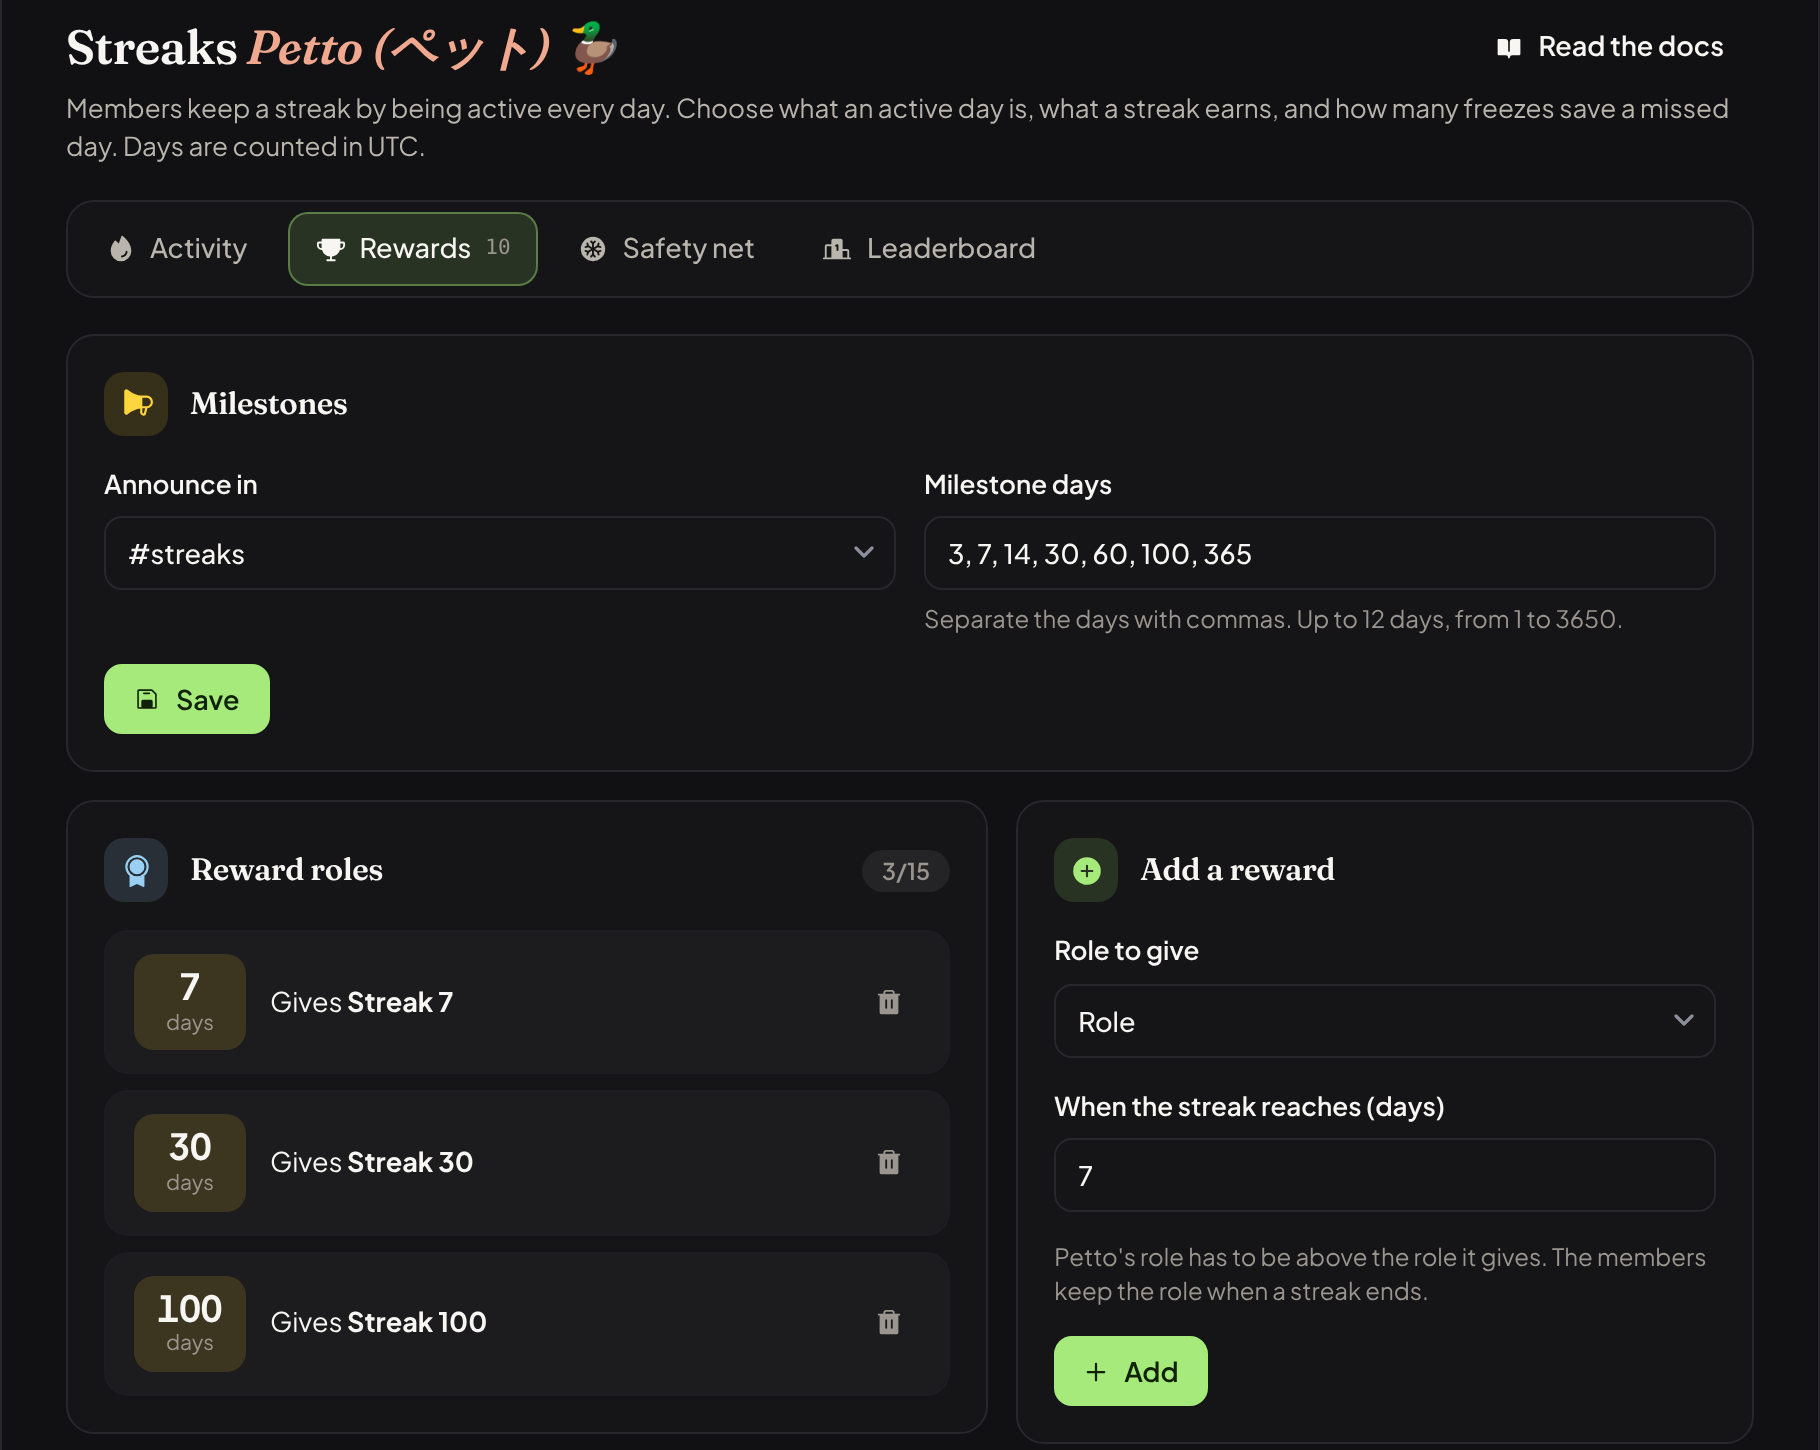
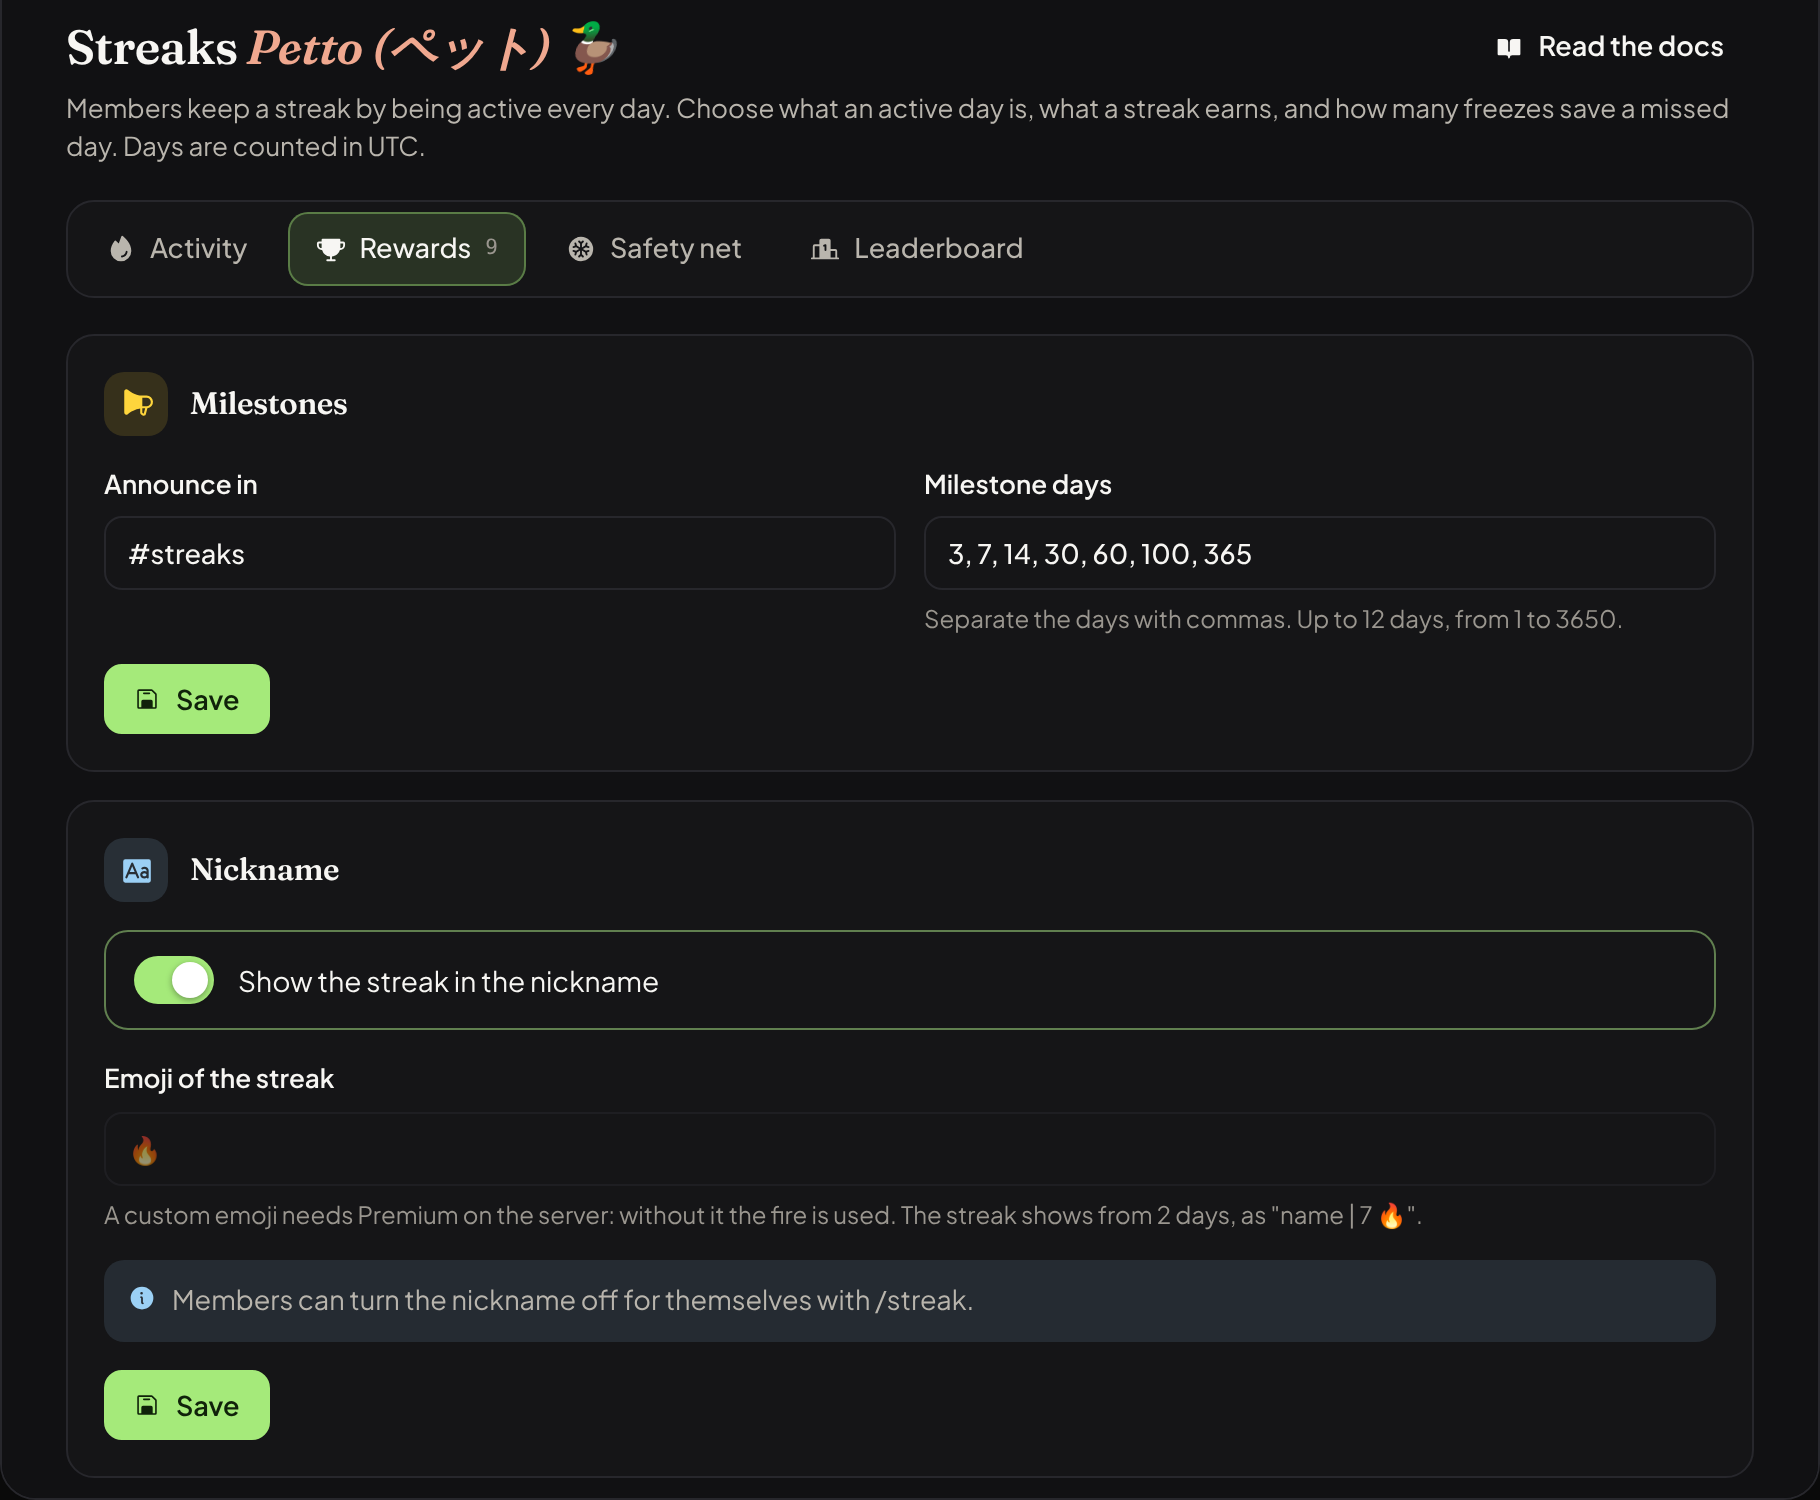
Streaks page: grace period, DM reminders, nickname; Currently log pictures

diff --git a/src/i18n/dash-es.ts b/src/i18n/dash-es.ts
@@ -7401,4 +7401,18 @@ export const dashEs: Record<string, string> = {
   "Terms:": "Términos:",
   "Purchases and refunds": "Compras y reembolsos",
   "Get Premium": "Obtener Premium",
+  "{n} minutes": "{n} minutos",
+  "2 hours": "2 horas",
+  "3 hours": "3 horas",
+  "Show the streak in the nickname": "Mostrar la racha en el apodo",
+  "Emoji of the streak": "Emoji de la racha",
+  "Shown after the days: \"name | 7 {emoji}\". The streak shows from 2 days. Petto cannot change the nickname of the owner or of someone above its role.": "Se muestra después de los días: \"nombre | 7 {emoji}\". La racha se muestra desde los 2 días. Petto no puede cambiar el apodo del dueño ni de quien esté por encima de su rol.",
+  "A custom emoji needs Premium on the server: without it the fire is used. The streak shows from 2 days, as \"name | 7 🔥\".": "Un emoji propio necesita Premium en el servidor: sin él se usa el fuego. La racha se muestra desde los 2 días, como \"nombre | 7 🔥\".",
+  "Members can turn the nickname off for themselves with /streak.": "Los miembros pueden apagar el apodo para sí mismos con /streak.",
+  "Grace period": "Periodo de gracia",
+  "For this long after midnight (UTC) the day that just ended still counts, so a streak is not lost the moment the day changes.": "Durante este tiempo después de medianoche (UTC) el día que acaba de terminar todavía cuenta, así una racha no se pierde en el momento en que cambia el día.",
+  "Reminder by DM": "Recordatorio por MD",
+  "A few hours before the day ends, Petto reminds by DM the members who would lose a streak of 3 days or more.": "Unas horas antes de que termine el día, Petto recuerda por MD a los miembros que perderían una racha de 3 días o más.",
+  "Message when a streak is lost": "Mensaje cuando se pierde una racha",
+  "Petto tells by DM a member who lost a streak of 3 days or more. A member can turn these messages off with /streak.": "Petto avisa por MD a un miembro que perdió una racha de 3 días o más. Un miembro puede apagar estos mensajes con /streak.",
 };

diff --git a/src/i18n/dash-pt.ts b/src/i18n/dash-pt.ts
@@ -7401,4 +7401,18 @@ export const dashPt: Record<string, string> = {
   "Terms:": "Termos:",
   "Purchases and refunds": "Compras e reembolsos",
   "Get Premium": "Obter Premium",
+  "{n} minutes": "{n} minutos",
+  "2 hours": "2 horas",
+  "3 hours": "3 horas",
+  "Show the streak in the nickname": "Mostrar a sequência no apelido",
+  "Emoji of the streak": "Emoji da sequência",
+  "Shown after the days: \"name | 7 {emoji}\". The streak shows from 2 days. Petto cannot change the nickname of the owner or of someone above its role.": "Aparece depois dos dias: \"nome | 7 {emoji}\". A sequência aparece a partir de 2 dias. O Petto não pode mudar o apelido do dono nem de quem estiver acima do cargo dele.",
+  "A custom emoji needs Premium on the server: without it the fire is used. The streak shows from 2 days, as \"name | 7 🔥\".": "Um emoji próprio precisa de Premium no servidor: sem ele usa-se o fogo. A sequência aparece a partir de 2 dias, como \"nome | 7 🔥\".",
+  "Members can turn the nickname off for themselves with /streak.": "Os membros podem desligar o apelido para si mesmos com /streak.",
+  "Grace period": "Período de tolerância",
+  "For this long after midnight (UTC) the day that just ended still counts, so a streak is not lost the moment the day changes.": "Durante este tempo depois da meia-noite (UTC) o dia que acabou de terminar ainda conta, assim uma sequência não se perde no instante em que o dia muda.",
+  "Reminder by DM": "Lembrete por DM",
+  "A few hours before the day ends, Petto reminds by DM the members who would lose a streak of 3 days or more.": "Algumas horas antes de o dia terminar, o Petto lembra por DM os membros que perderiam uma sequência de 3 dias ou mais.",
+  "Message when a streak is lost": "Mensagem quando uma sequência é perdida",
+  "Petto tells by DM a member who lost a streak of 3 days or more. A member can turn these messages off with /streak.": "O Petto avisa por DM um membro que perdeu uma sequência de 3 dias ou mais. Um membro pode desligar estas mensagens com /streak.",
 };
